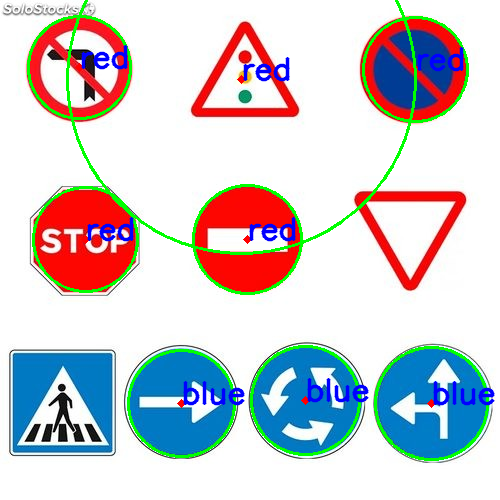
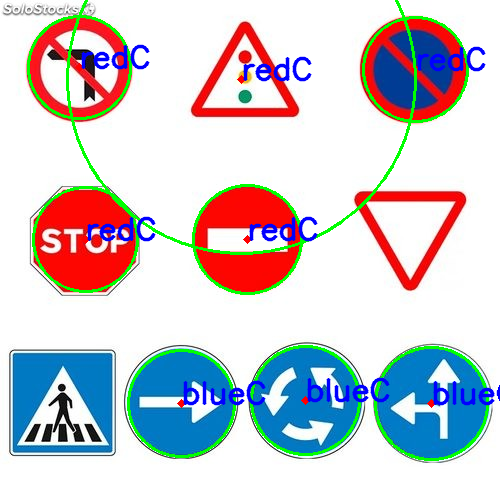
Refactor triangle detection (not working)

diff --git a/project1/src/printer.py b/project1/src/printer.py
@@ -17,6 +17,10 @@ def drawCircles(img, circles):
             cv2.circle(img,center,2,(0,0,255),3)
     return img
 
+def drawTriangles(img, triangles):
+    for triangle in triangles:
+        cv2.drawContours(img, triangle, 0, (0, 255, 0), -1)
+
     # Print on top of 'img' all the labels in 'obj'
 def printLabels(img, obj):
     # Constants
@@ -28,14 +32,20 @@ def printLabels(img, obj):
     # Personalized for each shape
     textToPrint = obj["text"]
     coords = obj["coordText"]
-    for coord in coords:
-        img = cv2.putText(img, textToPrint, coord, font, fontScale, color, thickness, cv2.LINE_AA)
+    if textToPrint == "redC" or textToPrint == 'blueC':
+        for coord in coords:
+            img = cv2.putText(img, textToPrint, coord, font, fontScale, color, thickness, cv2.LINE_AA)
+    # elif textToPrint == "T":
+        # for coord in coords:
+            # img = cv2.putText(img, textToPrint, coord[0], font, fontScale, color, thickness, cv2.LINE_AA)
     return img
 
 def printShapes(img, obj):
     text = obj["text"]
-    if text == "red" or text == 'blue':
+    if text == "redC" or text == 'blueC':
         img = drawCircles(img, obj["info"])
+    elif text == "T":
+        img = drawTriangles(img, obj["info"])
     return img
 
 class Printer:

diff --git a/project1/src/detector.py b/project1/src/detector.py
@@ -40,7 +40,26 @@ class Detector:
                 "info": circles,
                 "debugImg": gray,
                 "coordText": centers,
-                "text": color
+                "text": color + "C"
             }
-            self.detected[color] = circlesObj
+            self.detected["c-" + color] = circlesObj
         return circles, gray, centers
+
+    def detectTriangles(self):
+        img = self.img
+        gray = cv2.cvtColor(img, cv2.COLOR_BGR2GRAY)
+        ret, thresh = cv2.threshold(gray, 127, 255, 1)
+        contours, h = cv2.findContours(thresh, 1, 2)
+        triangles = []
+        for cnt in contours:
+            approx = cv2.approxPolyDP(cnt, 0.01*cv2.arcLength(cnt, True), True)
+            if len(approx) == 3:
+                triangles.append([cnt])
+        trianglesObj = {
+            "info": contours,
+            "debugImg": thresh,
+            "coordText": triangles,
+            "text": "T"
+        }
+        self.detected["t"] = trianglesObj
+        return contours, thresh, triangles

diff --git a/project1/src/project.py b/project1/src/project.py
@@ -19,6 +19,7 @@ img = reader.getImage()
 det = Detector(img)
 det.detectCircles("red")
 det.detectCircles("blue")
+# det.detectTriangles()
 ans = det.getDetected()
 
 # Print the Detected POI's into the image
